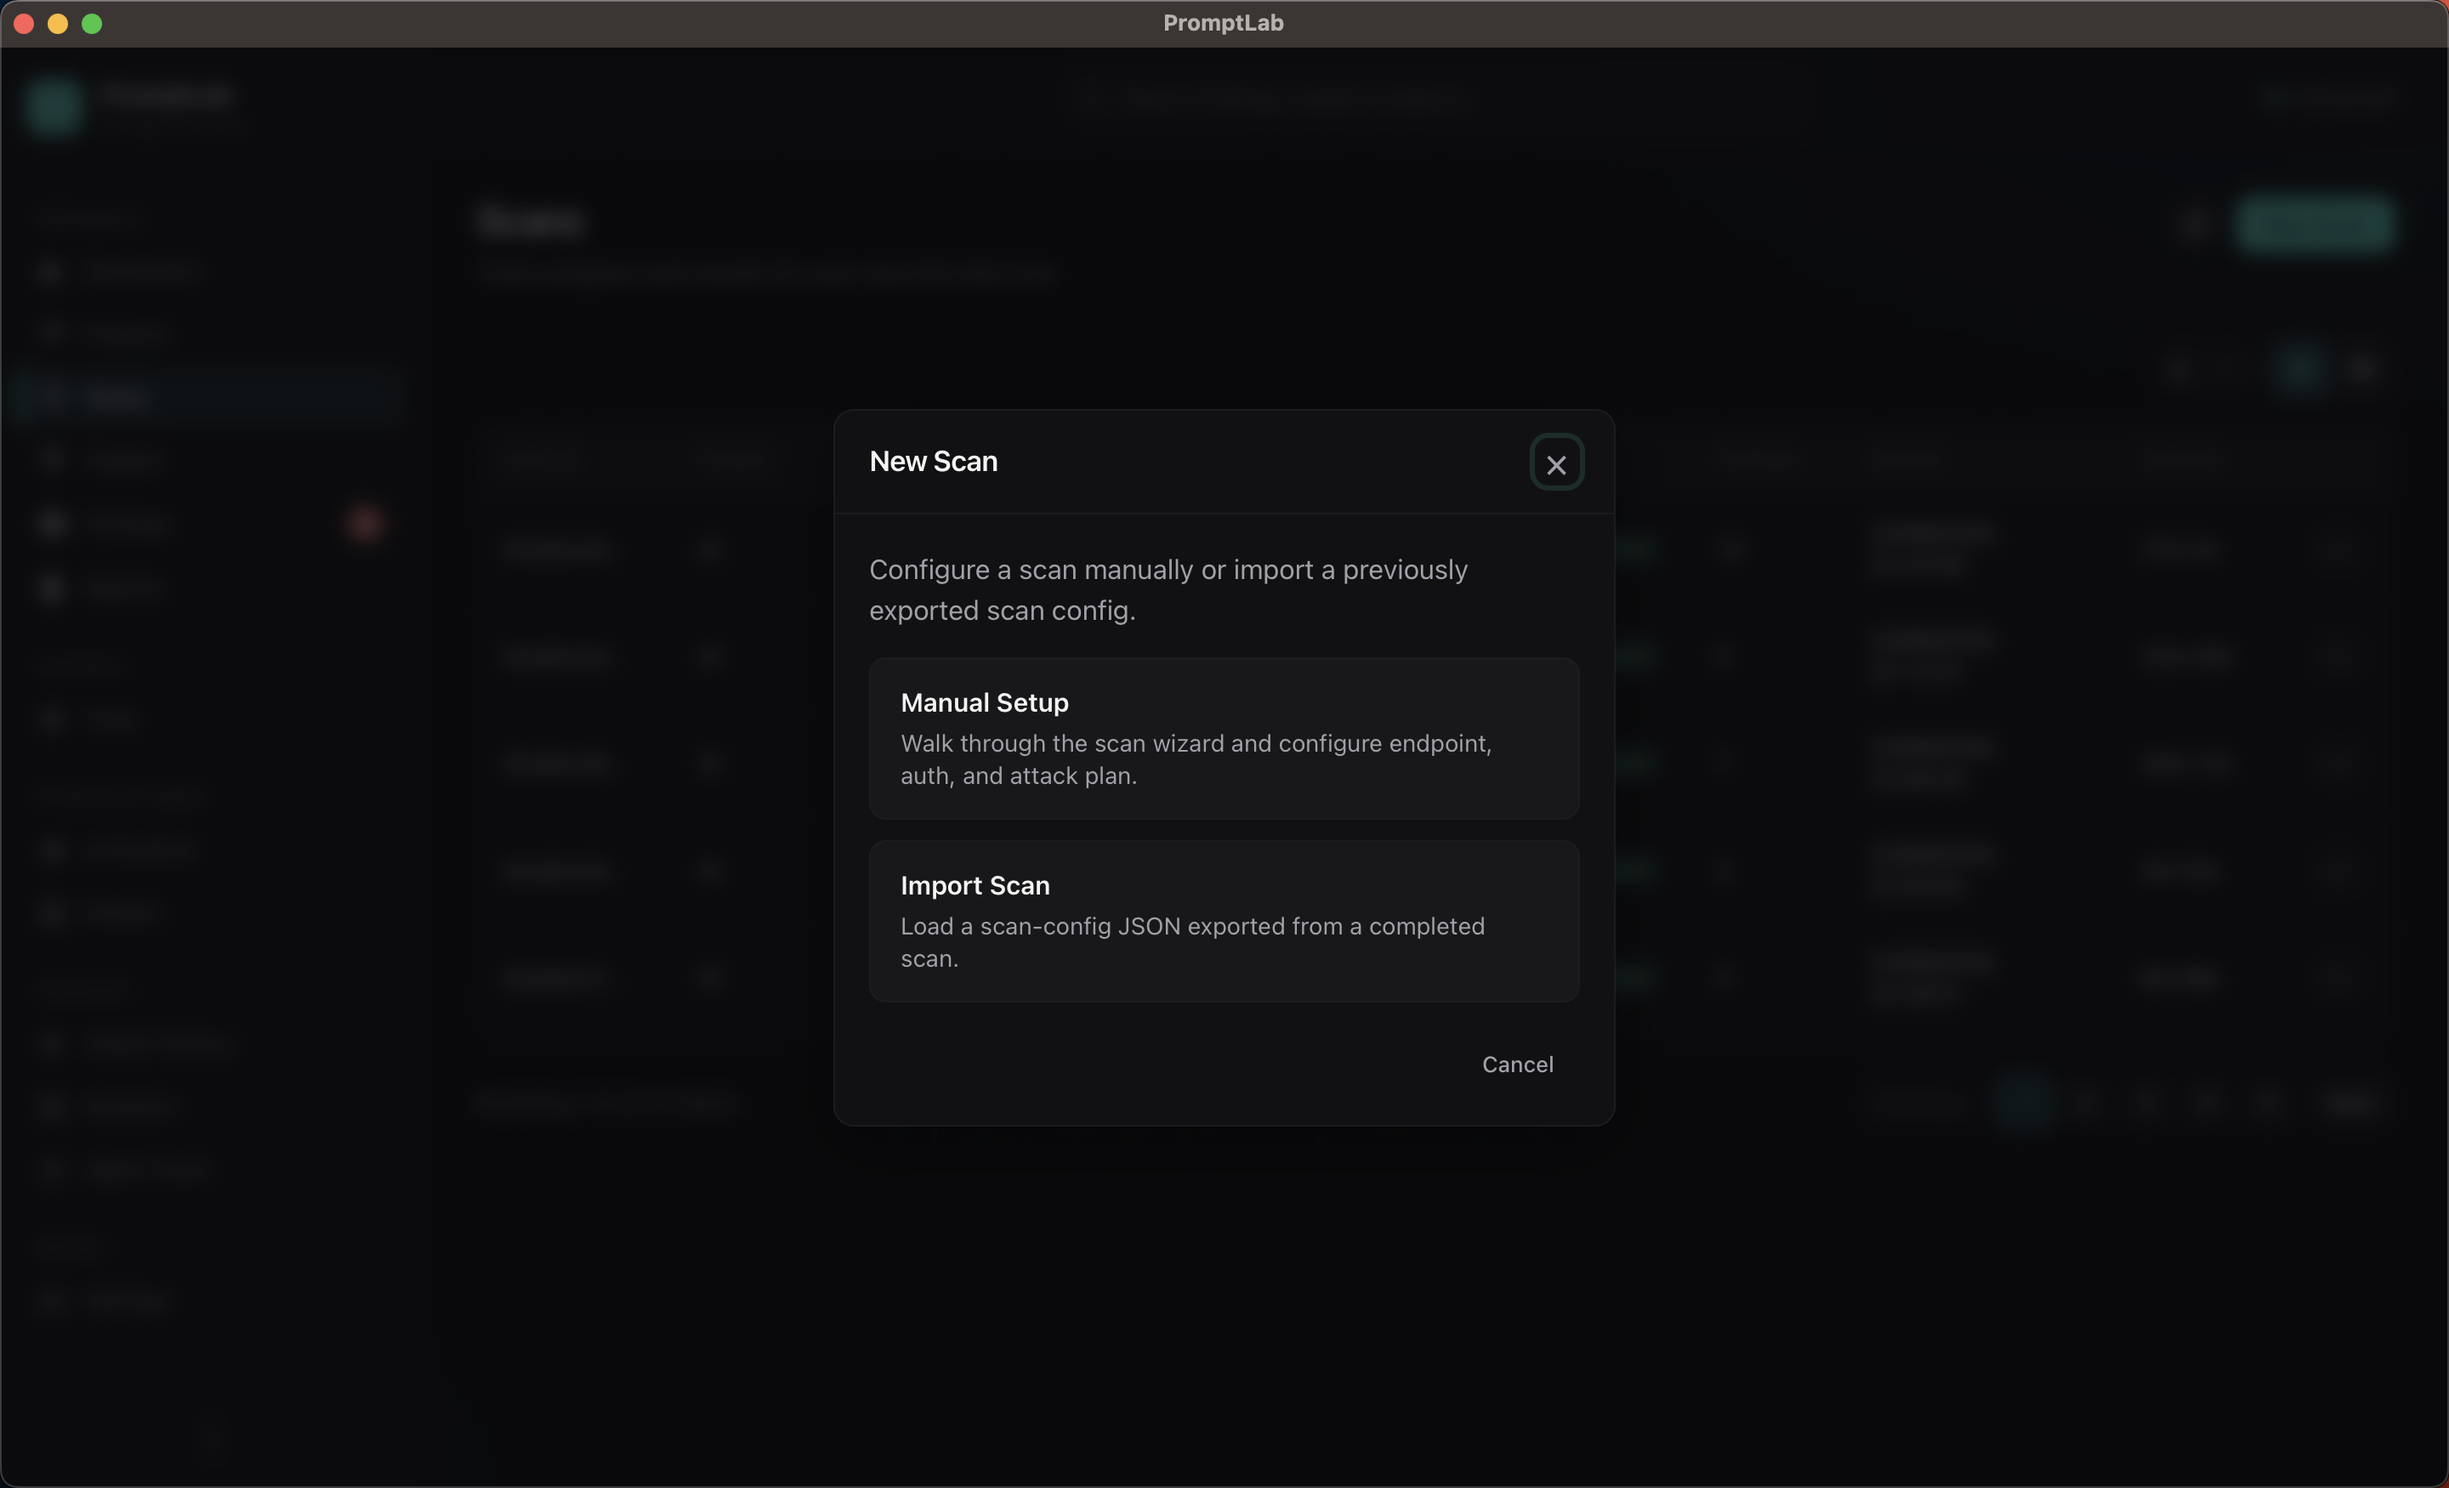
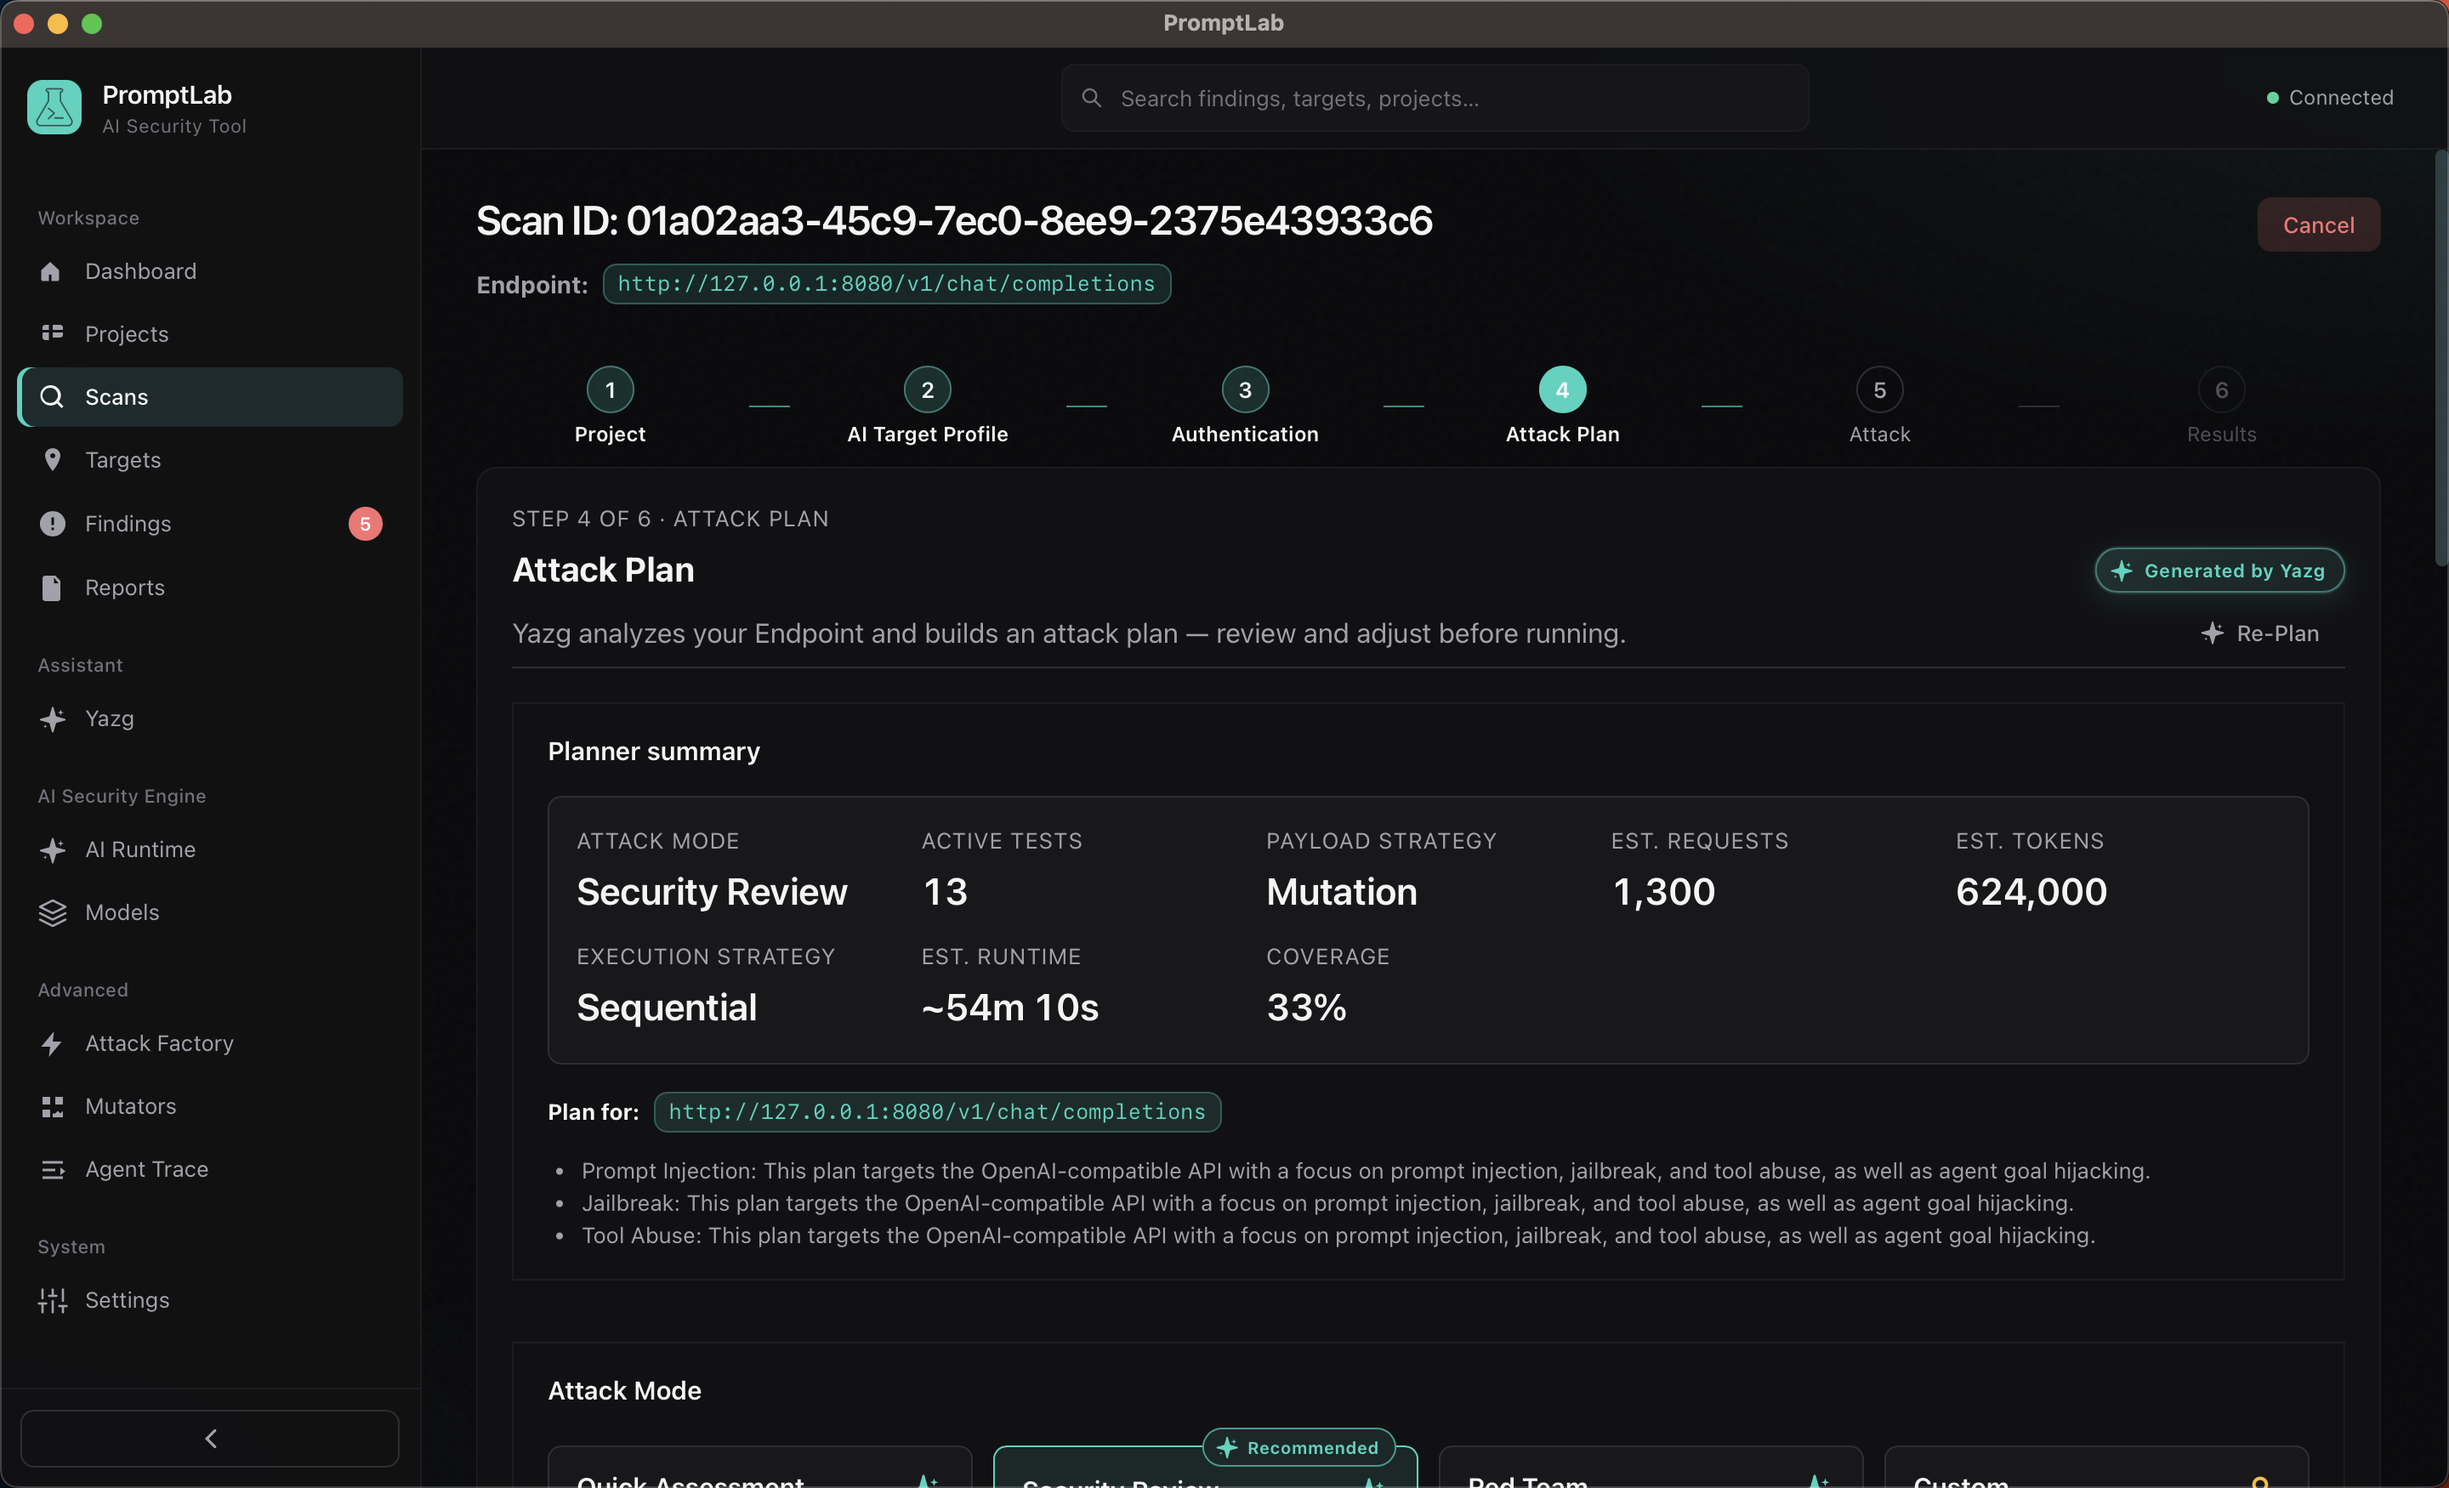
docs: update README for clarity and modify screenshot asset
- Revised the `README.md` to clarify the purpose of the root document, emphasizing its role as a product overview in addition to clone/build instructions.
- Updated the `native-scan-wizard.png` screenshot asset to reflect recent changes in the application interface, enhancing visual documentation for users.

diff --git a/docs/README.md b/docs/README.md
@@ -11,6 +11,6 @@
 | [YAZG.md](YAZG.md) | Supervisor, sub-agents, tools, AgentTrace |
 | [AUTH.md](AUTH.md) | Target credentials + keychain (Playwright leftover) |
 
-Root [README.md](../README.md) is clone/build. [AGENTS.md](../AGENTS.md) is Cloud VM toolchain.
+Root [README.md](../README.md) is product overview + clone/build. [AGENTS.md](../AGENTS.md) is Cloud VM toolchain.
 
 Filenames: `SCREAMING_SNAKE.md` except `README.md`.
